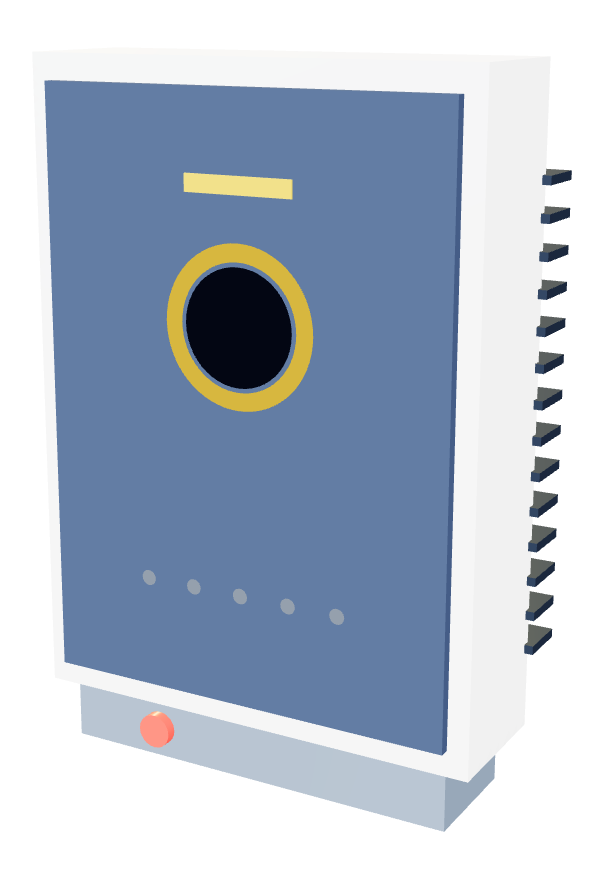
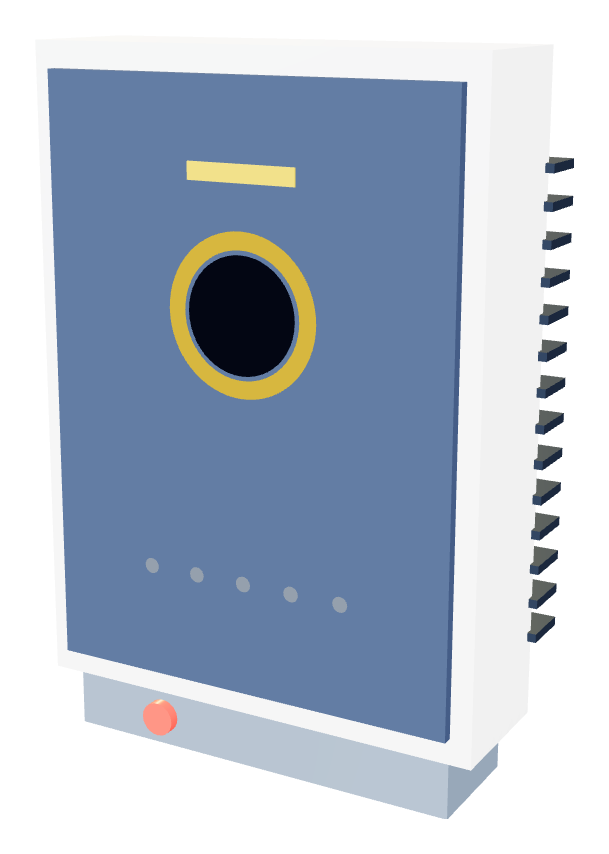
feat(home): use authentic 3D hardware renders with symmetrical padding and proper fit in Our Products cards

diff --git a/website/src/components/home/HomeProductCard.tsx b/website/src/components/home/HomeProductCard.tsx
@@ -25,10 +25,10 @@ export function HomeProductCard({ item, index }: HomeProductCardProps) {
 
   const imageSrc =
     index === 0
-      ? "/images/products/single-phase-inverter.svg"
+      ? "/images/products/inverter-single.png"
       : index === 1
-      ? "/images/products/three-phase-inverter.svg"
-      : "/images/products/lfp-battery.svg";
+      ? "/images/products/inverter-three.png"
+      : "/images/products/battery-render.png";
 
   return (
     <li className="w-full max-w-[382px]">
@@ -42,18 +42,20 @@ export function HomeProductCard({ item, index }: HomeProductCardProps) {
             {item.eyebrow}
           </p>
 
-          {/* Product image inside the coloured box */}
+          {/* Authentic 3D Render from Product Page inside the coloured box */}
           <div
-            className={`relative h-60 sm:h-64 w-full rounded-[22px] ${boxGradient} flex items-center justify-center overflow-hidden p-5 shadow-inner`}
+            className={`relative h-60 sm:h-64 w-full rounded-[22px] ${boxGradient} flex items-center justify-center overflow-hidden p-4 sm:p-5 shadow-inner`}
           >
-            <Image
-              src={imageSrc}
-              alt={item.eyebrow}
-              fill
-              className="object-contain p-2 drop-shadow-[0_16px_28px_rgba(0,0,0,0.14)] transition-transform duration-300 group-hover:scale-105"
-              sizes="(max-width: 768px) 100vw, 360px"
-              priority={index === 0}
-            />
+            <div className="relative size-full transition-transform duration-300 group-hover:scale-105">
+              <Image
+                src={imageSrc}
+                alt={item.eyebrow}
+                fill
+                className="object-contain drop-shadow-[0_16px_28px_rgba(0,0,0,0.18)]"
+                sizes="(max-width: 768px) 100vw, 360px"
+                priority={index === 0}
+              />
+            </div>
           </div>
 
           {/* Title & Tagline */}
